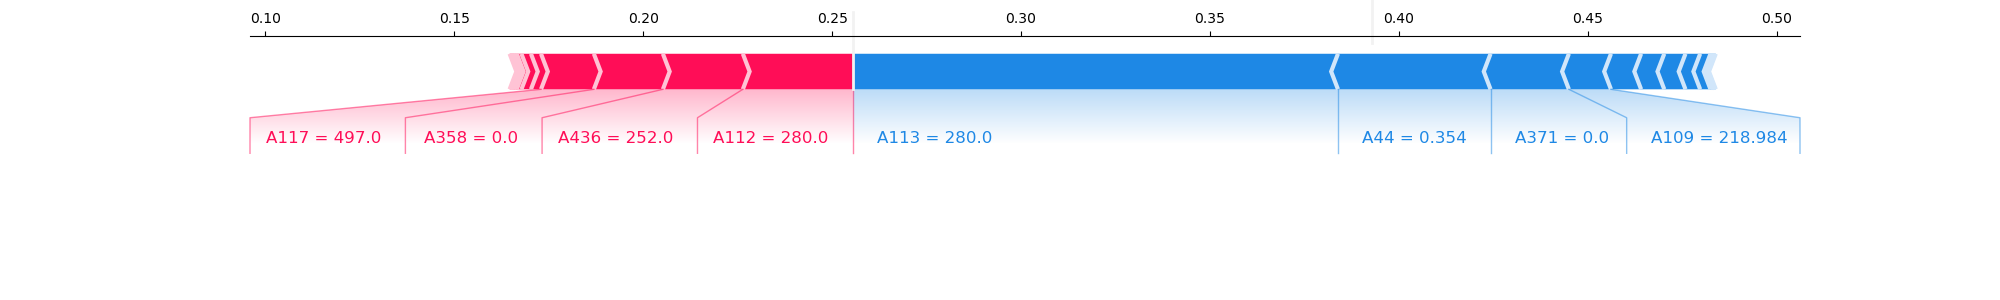
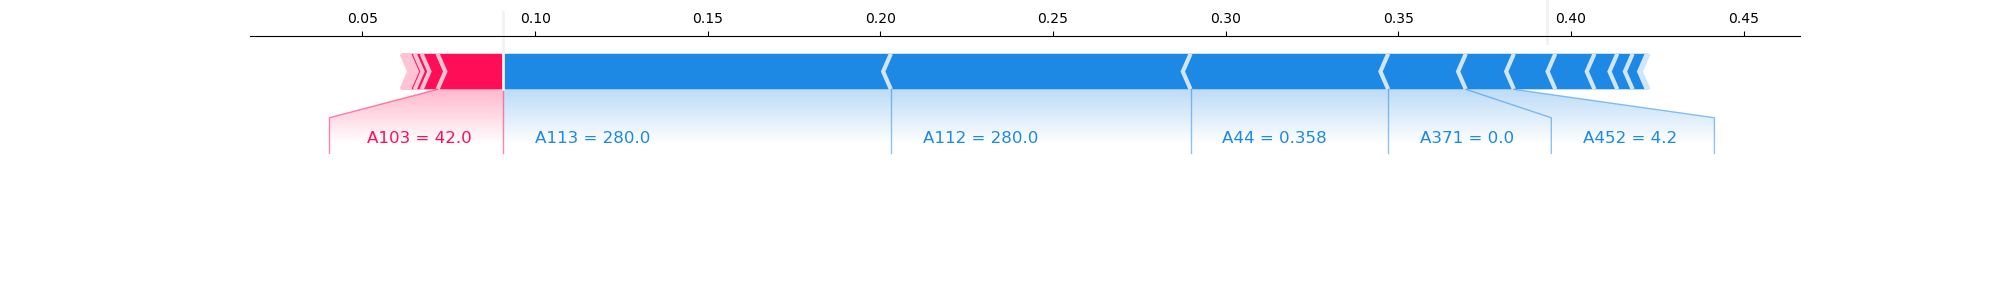
best model with shap problems

diff --git a/assignment2.py b/assignment2.py
@@ -18,7 +18,7 @@ from sklearn.ensemble import RandomForestClassifier
 from sklearn.ensemble import GradientBoostingClassifier
 from sklearn.tree import DecisionTreeClassifier
 from sklearn.svm import SVC
-from catboost import CatBoostClassifier
+from catboost import CatBoostClassifier, EFstrType, Pool
 import xgboost as xgb
 import lightgbm as lgb
 # from deepstack.ensemble import StackEnsemble
@@ -141,7 +141,7 @@ def calculateAUC(label, classifier, X, Y):
     return pred
 
 
-def printSHAP(trained_model, records, list_to_plot):
+def printSHAP(trained_model, records, classes, list_to_plot):
     import shap  # package used to calculate Shap values
 
     # Create object that can calculate shap values
@@ -149,10 +149,27 @@ def printSHAP(trained_model, records, list_to_plot):
 
     # Calculate Shap values
     shap.initjs()
-    for i in list_to_plot:
-        shap_values = explainer.shap_values(records.iloc[i])
-        shap.force_plot(round(explainer.expected_value[1], 3), shap_values[1], records.iloc[i].round(3), show=False, matplotlib=True)
-        plt.pyplot.savefig('shap_plot_' + str(i) + '.png')
+    if trained_model is catBoostClassifier:
+        explainer = shap.KernelExplainer(trained_model.predict_proba, X_train)
+        print([list(records.columns)[x] for x in nominal_cols_indexes])
+        shap_values = trained_model.get_feature_importance(Pool(records, classes),
+                                                           type=EFstrType.ShapValues, cat_features=[list(records.columns)[x] for x in nominal_cols_indexes])  # can use 'ShapValues' instead for the type, and categorical_columns is the list of the columns names where the values are categorical
+
+        # visualize the first prediction's explanation
+        shap.force_plot(explainer.expected_value[0], shap_values[0], feature_names=records.columns,
+                        out_names=list(classes.unique()))
+
+        # summarize the effects of all the features in a multi-class barplot
+        original_shape = shap_values.shape
+        shap_values_reshaped = shap_values.reshape(original_shape[1], original_shape[0], original_shape[-1])
+        shap.summary_plot(list(shap_values_reshaped[:, :, :-1]), features=records, class_names=classes.unique(),
+                          plot_type='bar')
+    else:
+        for i in list_to_plot:
+            shap_values = explainer.shap_values(records.iloc[i])
+            shap.force_plot(round(explainer.expected_value[1], 3), shap_values[1], records.iloc[i].round(3), show=False,
+                            matplotlib=True)
+            plt.pyplot.savefig('shap_plot_' + str(i) + '.png')
 
 
 gradientBoostingClassifier = GradientBoostingClassifier(n_estimators=3000, max_leaf_nodes=4, max_depth=None,
@@ -185,7 +202,9 @@ xgbClassifier = GridSearchCV(xgb.XGBClassifier(),
                     cv=3)
 '''
 
-catBoostClassifier = CatBoostClassifier(iterations=10000, learning_rate=0.01, depth=2, subsample=0.5, verbose=False) # avg = 0.748
+catBoostClassifier = CatBoostClassifier(learning_rate=0.05, subsample=0.5, verbose=False)# avg = 0.7497
+
+lgbClassifier = lgb.LGBMClassifier(learning_rate=0.05, subsample=0.5) # avg = 0.7445
 
 svc = SVC(kernel='rbf', class_weight='balanced', gamma=0.01, C=1e3, probability=True)  # avg = 0.413
 
@@ -205,7 +224,7 @@ logisticRegression = LogisticRegression()
 
 # classifier = xgb.XGBClassifier(n_estimators= 2000, max_leaf_nodes= 4, random_state= 2, min_samples_split= 500, learning_rate= 0.03, subsample= 0.5)
 classifier = catBoostClassifier
-do_cross_val = True
+do_cross_val = False
 use_all_data_for_end_classifing = True
 saving_result = True
 num_of_folds = 5
@@ -284,4 +303,4 @@ if saving_result:
         calculateAUC('Validate', classifier, X_validate, Y_validate)
     test_pred = classifier.predict_proba(test_data)[:, 1]
     write_prediction(test_pred)
-    printSHAP(classifier, X_train, [0, 5, 10])
+    printSHAP(classifier, X_train, Y_train, [0, 5, 10])
